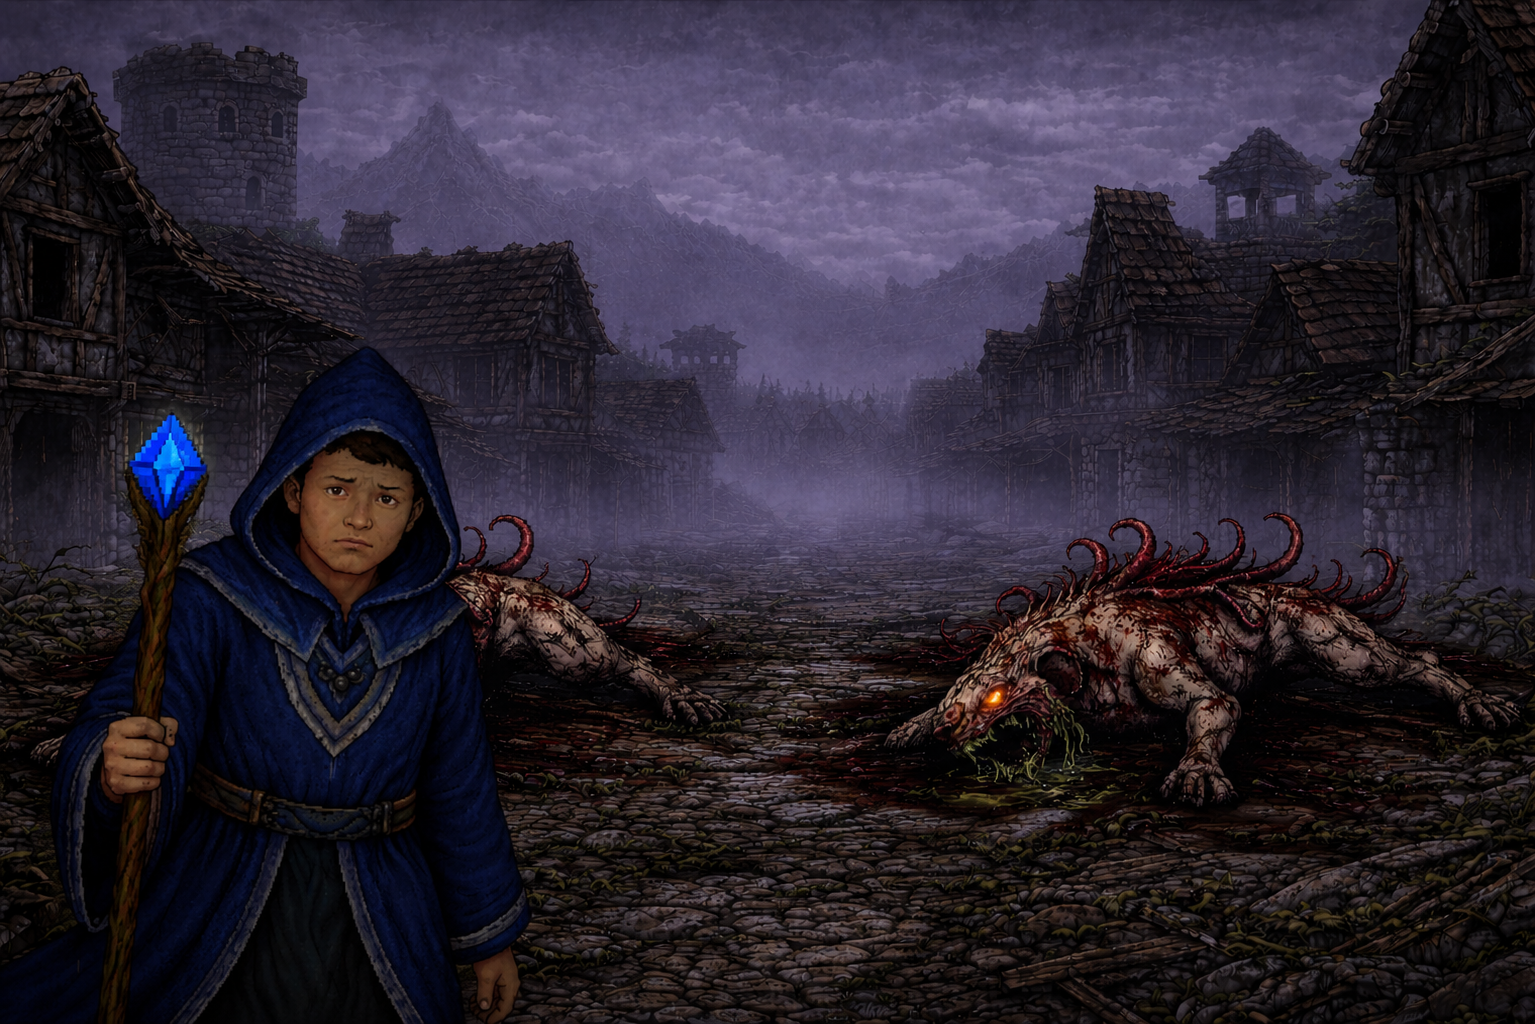
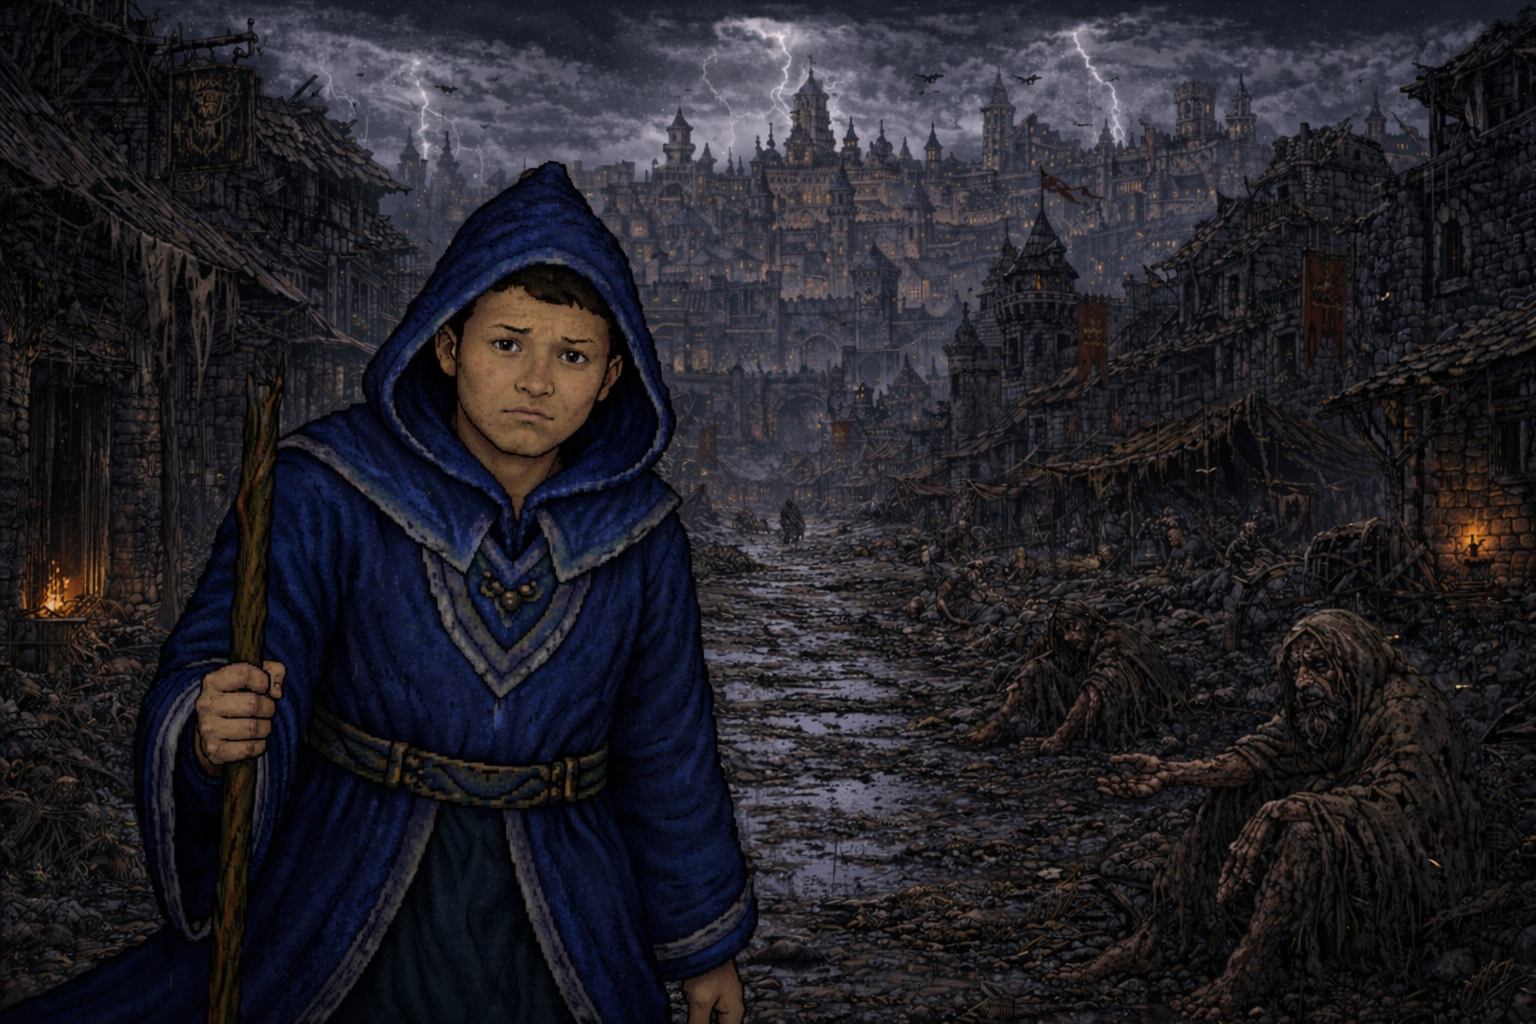
Change inconsistencies

diff --git a/src/GameGUI/ui/DashboardPanel.java b/src/GameGUI/ui/DashboardPanel.java
@@ -221,7 +221,26 @@ public class DashboardPanel extends JPanel {
         ));
 
         JButton btn = new RoundButton("← Return to Menu");
-        btn.addActionListener(e -> onMainMenu.run());
+        btn.addActionListener(e -> {
+            // Get the main window (JFrame) hosting this panel
+            JFrame topFrame = (JFrame) SwingUtilities.getWindowAncestor(DashboardPanel.this);
+
+            // Clear the current screen (Dashboard)
+            topFrame.getContentPane().removeAll();
+
+            // Add the TitleScreen back
+            topFrame.getContentPane().add(new GameGUI.TitleScreen());
+
+            // Refresh the frame to show the new screen
+            topFrame.revalidate();
+            topFrame.repaint();
+
+            // Optional: You can still call onMainMenu.run() here if you need
+            // it to clean up other game states before switching screens.
+            if (onMainMenu != null) {
+                onMainMenu.run();
+            }
+        });
         footer.add(btn, BorderLayout.WEST);
 
         JLabel hint = new JLabel("Updated live on completion");
